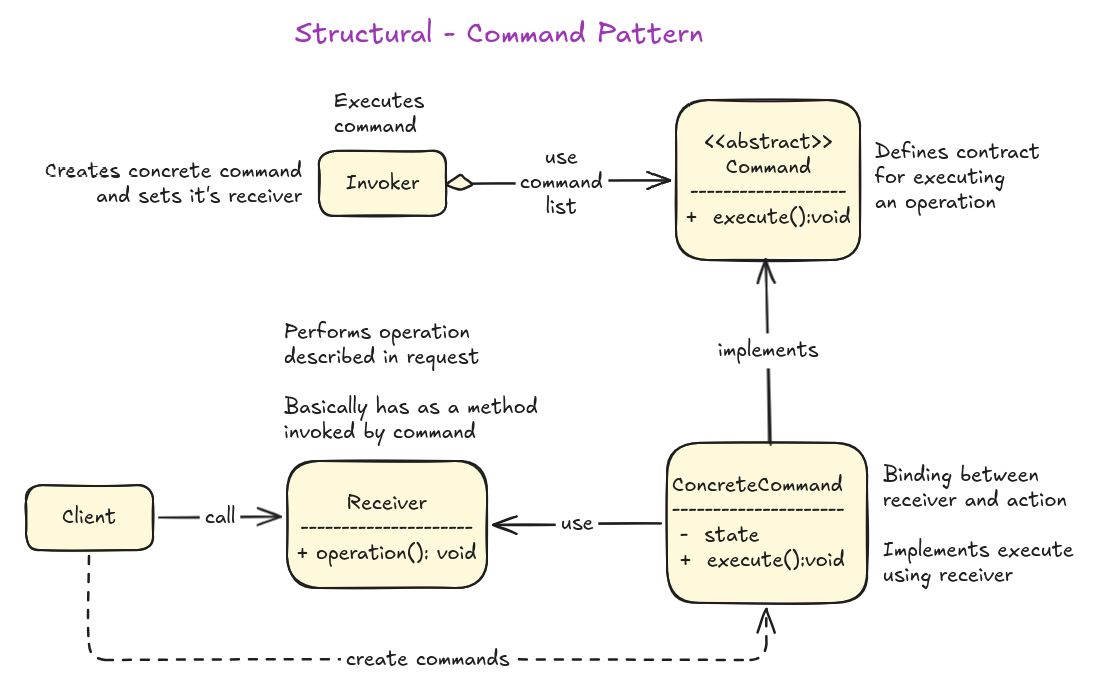
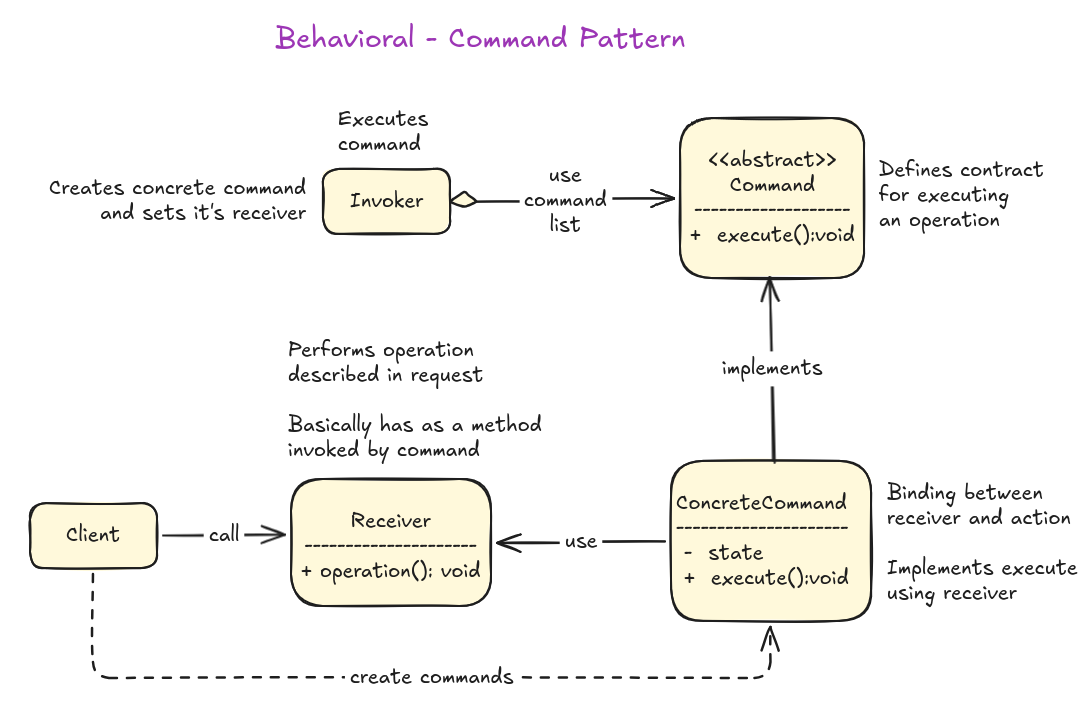
Fix wrong category

diff --git a/src/DesignPatterns/Behavioral/CommandInGame/Command.java b/src/DesignPatterns/Behavioral/CommandInGame/Command.java
@@ -1,4 +1,4 @@
-package DesignPatterns.Creational.Structural.CommandInGame;
+package DesignPatterns.Behavioral.CommandInGame;
 
 // Command arayüzü: Eylemi gerçekleştirecek Player sınıfının kullanacağı ortak arayüz
 // Böylece aynı komut sadece Player sınıfına değil, farklı oyuncu türlerine de uygulanabilir hale gelir

diff --git a/src/DesignPatterns/Behavioral/CommandInGame/InputHandler.java b/src/DesignPatterns/Behavioral/CommandInGame/InputHandler.java
@@ -1,4 +1,4 @@
-package DesignPatterns.Creational.Structural.CommandInGame;
+package DesignPatterns.Behavioral.CommandInGame;
 
 // Invoker: Tuşları dinleyen ve ilgili butona atanmış komutları döndüren sınıf.
 // Doğrudan eylemi gerçelleştirmez, sadece hangi komutun çalıştırılacağını belirler.

diff --git a/src/DesignPatterns/Behavioral/CommandSimple/TurnOffLightCommand.java b/src/DesignPatterns/Behavioral/CommandSimple/TurnOffLightCommand.java
@@ -1,4 +1,4 @@
-package DesignPatterns.Creational.Structural.CommandSimple;
+package DesignPatterns.Behavioral.CommandSimple;
 
 // Concrete Command: Işığı kapatma komutu
 public class TurnOffLightCommand implements SmartHomeCommand {

diff --git a/src/DesignPatterns/Behavioral/CommandSimple/TurnOnLightCommand.java b/src/DesignPatterns/Behavioral/CommandSimple/TurnOnLightCommand.java
@@ -1,4 +1,4 @@
-package DesignPatterns.Creational.Structural.CommandSimple;
+package DesignPatterns.Behavioral.CommandSimple;
 
 // Concrete Command: Işığı açma komutu
 public class TurnOnLightCommand implements SmartHomeCommand {

diff --git a/src/DesignPatterns/Behavioral/CommandInGame/Player.java b/src/DesignPatterns/Behavioral/CommandInGame/Player.java
@@ -1,4 +1,4 @@
-package DesignPatterns.Creational.Structural.CommandInGame;
+package DesignPatterns.Behavioral.CommandInGame;
 
 // Receiver: Oyuncunun hareket ve atak işlemlerini gerçekleştiren sınıf
 public class Player {

diff --git a/src/DesignPatterns/Behavioral/Command/Command.java b/src/DesignPatterns/Behavioral/Command/Command.java
@@ -1,4 +1,4 @@
-package DesignPatterns.Creational.Structural.Command;
+package DesignPatterns.Behavioral.Command;
 
 // Command sınıflarının kullanacağı ortak arayüz (Command Interface)
 public interface Command {

diff --git a/src/DesignPatterns/Behavioral/CommandInGame/Game.java b/src/DesignPatterns/Behavioral/CommandInGame/Game.java
@@ -1,4 +1,4 @@
-package DesignPatterns.Creational.Structural.CommandInGame;
+package DesignPatterns.Behavioral.CommandInGame;
 
 // Client: Oyun döngüsü ve oyuncu girişlerini simüle eden sınıf
 public class Game {

diff --git a/src/DesignPatterns/Behavioral/Command/Client.java b/src/DesignPatterns/Behavioral/Command/Client.java
@@ -1,4 +1,4 @@
-package DesignPatterns.Creational.Structural.Command;
+package DesignPatterns.Behavioral.Command;
 
 public class Client {
     public static void main(String[] args) throws InterruptedException {

diff --git a/src/DesignPatterns/Behavioral/CommandInGame/MoveCommand.java b/src/DesignPatterns/Behavioral/CommandInGame/MoveCommand.java
@@ -1,4 +1,4 @@
-package DesignPatterns.Creational.Structural.CommandInGame;
+package DesignPatterns.Behavioral.CommandInGame;
 
 public class MoveCommand implements Command {
     private final Vector direction;

diff --git a/src/DesignPatterns/Behavioral/Command/AddDestinationCommand.java b/src/DesignPatterns/Behavioral/Command/AddDestinationCommand.java
@@ -1,4 +1,4 @@
-package DesignPatterns.Creational.Structural.Command;
+package DesignPatterns.Behavioral.Command;
 
 public class AddDestinationCommand implements Command {
     private String destination;

diff --git a/src/DesignPatterns/Behavioral/CommandSimple/HomeClient.java b/src/DesignPatterns/Behavioral/CommandSimple/HomeClient.java
@@ -1,4 +1,4 @@
-package DesignPatterns.Creational.Structural.CommandSimple;
+package DesignPatterns.Behavioral.CommandSimple;
 
 public class HomeClient {
     public static void main(String[] args) {

diff --git a/src/DesignPatterns/Behavioral/Command/AddSourceCommand.java b/src/DesignPatterns/Behavioral/Command/AddSourceCommand.java
@@ -1,4 +1,4 @@
-package DesignPatterns.Creational.Structural.Command;
+package DesignPatterns.Behavioral.Command;
 
 // Concrete Command sınıfı
 public class AddSourceCommand implements Command {
